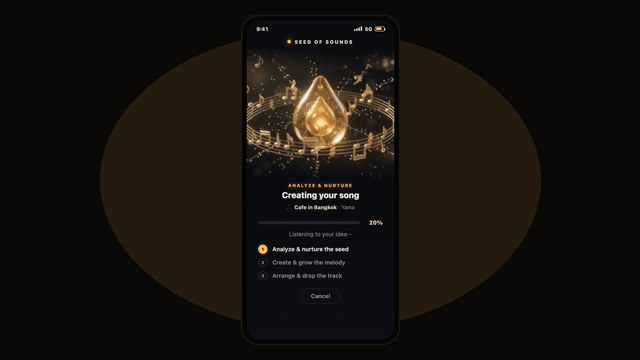
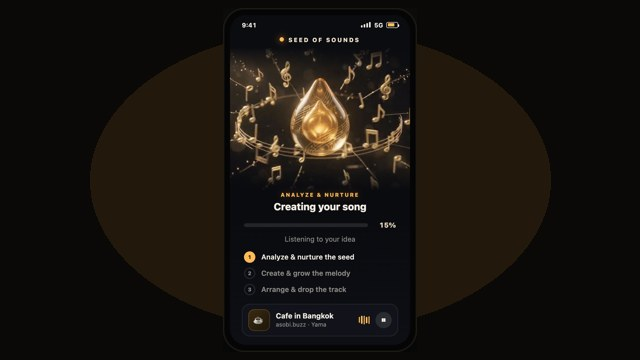
Design 11: seamless phase crossfade + songcard + info panel
Fixes per feedback:
- Phase switch no longer black-flashes: stack the 3 clips as video layers and
  cross-fade on opacity (no src reload) instead of swapping one <video>'s src.
- Add the bottom songcard (thumb + Cafe in Bangkok / asobi.buzz + equalizer +
  pause) like Design 1.
- Add the info aside like Design 1: 'How it's built' bullets, a live page-weight
  badge (real loaded bytes ~1.9MB), Replay + Phase 1/2/3 jump controls, note.
- Restructure into phone + info two-column layout; refreshed poster.

diff --git a/video-mobile.html b/video-mobile.html
@@ -6,52 +6,53 @@
 <title>Seed of Sounds — Mobile Video Loader</title>
 <style>
   * { margin: 0; padding: 0; box-sizing: border-box; }
-  :root { --bg:#08080a; --scr:#0b0c10; --scr2:#0e0f14; --gold:#FFBB57; --gold2:#F58F22;
-    --ink:#f1ece2; --dim:rgba(241,236,226,.55); --track:rgba(255,255,255,.10); --green:#8fce6a; }
-  body { background: radial-gradient(760px 520px at 50% 26%, #14120c, #08080a 70%); color: var(--ink);
+  :root { --gold:#FFBB57; --gold2:#F58F22; --green:#8fce6a;
+    --scr:#0b0c10; --card:#12131a; --ink:#f1ece2; --dim:rgba(241,236,226,.55);
+    --track:rgba(255,255,255,.10); --panel-dim:rgba(241,236,226,.6); --panel-text:#efe2cc; }
+  body { background: radial-gradient(760px 520px at 50% 22%, #14120c, #08080a 70%); color: var(--ink);
     font-family: "Noto Sans JP", -apple-system, BlinkMacSystemFont, system-ui, sans-serif;
-    min-height: 100vh; display: grid; place-items: center; gap: 1.1rem; padding: 2rem; }
-  h1.pgt { font-size: 1rem; font-weight: 800; color: var(--gold); letter-spacing: .02em; }
-  .lede { font-size: .8rem; color: var(--dim); max-width: 44ch; text-align: center; }
+    min-height: 100vh; padding: 2.4rem 1.5rem; }
+  .pgt { text-align: center; margin-bottom: 1.6rem; }
+  .pgt small { font-size: .68rem; letter-spacing: .24em; text-transform: uppercase; color: var(--gold); font-weight: 800; }
+  .pgt h1 { font-size: 1.35rem; font-weight: 800; color: var(--ink); margin-top: .3rem; }
+
+  main { display: flex; flex-wrap: wrap; gap: 2.6rem; justify-content: center; align-items: flex-start; }
 
   /* ---------- phone ---------- */
   .phone { width: 360px; border-radius: 40px; padding: 12px; background: #050506;
     border: 1px solid #23201a; box-shadow: 0 40px 80px -24px rgba(0,0,0,.7), inset 0 0 0 2px #16130e; }
-  .screen { position: relative; border-radius: 30px; overflow: hidden; height: 720px;
-    background: linear-gradient(180deg, var(--scr) 0%, #0a0b0f 55%, var(--scr2) 100%); }
+  .screen { position: relative; border-radius: 30px; overflow: hidden; padding-bottom: 16px;
+    background: linear-gradient(180deg, var(--scr) 0%, #0a0b0f 60%, #0e0f14 100%); }
   .statusbar { display: flex; justify-content: space-between; align-items: center;
-    padding: 12px 22px 6px; font-size: .72rem; font-weight: 700; color: var(--ink);
-    font-variant-numeric: tabular-nums; }
+    padding: 12px 22px 6px; font-size: .72rem; font-weight: 700; font-variant-numeric: tabular-nums; }
   .statusbar .ic { display: flex; align-items: center; gap: 6px; }
   .bat { width: 22px; height: 11px; border: 1px solid var(--ink); border-radius: 3px; position: relative; padding: 1.5px; }
   .bat::after { content:''; position:absolute; right:-3px; top:3px; width:2px; height:5px; background:var(--ink); border-radius:0 2px 2px 0; }
   .bat > i { display:block; height:100%; width:72%; background: var(--gold); border-radius:1px; }
   .sig { display:flex; align-items:flex-end; gap:2px; }
   .sig > i { width:3px; background: var(--ink); border-radius:1px; }
-  .sig > i:nth-child(1){height:4px} .sig>i:nth-child(2){height:6px} .sig>i:nth-child(3){height:8px} .sig>i:nth-child(4){height:10px}
+  .sig>i:nth-child(1){height:4px} .sig>i:nth-child(2){height:6px} .sig>i:nth-child(3){height:8px} .sig>i:nth-child(4){height:10px}
 
-  .apphead { display: flex; align-items: center; justify-content: center; gap: 8px; padding: 10px 0 2px; }
+  .apphead { display: flex; align-items: center; justify-content: center; gap: 8px; padding: 8px 0 2px; }
   .apphead .dot { width: 8px; height: 8px; border-radius: 50%; background: var(--gold); box-shadow: 0 0 12px var(--gold2); }
   .apphead b { font-size: .68rem; letter-spacing: .22em; text-transform: uppercase; color: #efe2cc; font-weight: 800; }
 
-  /* video hero — black background melts into the screen via screen-blend */
-  .hero { position: relative; height: 300px; margin: 6px 0 0; }
-  .hero video { position: absolute; inset: 0; width: 100%; height: 100%; object-fit: cover;
-    mix-blend-mode: screen;
-    -webkit-mask-image: linear-gradient(to bottom, transparent 0, #000 14%, #000 86%, transparent 100%);
-            mask-image: linear-gradient(to bottom, transparent 0, #000 14%, #000 86%, transparent 100%); }
+  /* video hero — dual layers crossfade; black bg melts via screen-blend + edge mask */
+  .hero { position: relative; height: 264px; margin-top: 6px; }
+  .hero .layer { position: absolute; inset: 0; width: 100%; height: 100%; object-fit: cover;
+    mix-blend-mode: screen; opacity: 0; transition: opacity .55s ease;
+    -webkit-mask-image: linear-gradient(to bottom, transparent 0, #000 15%, #000 85%, transparent 100%);
+            mask-image: linear-gradient(to bottom, transparent 0, #000 15%, #000 85%, transparent 100%); }
+  .hero .layer.on { opacity: 1; }
   .hero .glow { position: absolute; inset: 0; pointer-events: none;
-    background: radial-gradient(120px 120px at 50% 46%, rgba(245,160,50,.14), transparent 70%); }
-  .hero .flash { position: absolute; inset: 0; background: var(--scr); opacity: 0; transition: opacity .16s ease; pointer-events: none; }
+    background: radial-gradient(120px 120px at 50% 46%, rgba(245,160,50,.13), transparent 70%); }
 
-  .info { padding: 4px 26px 0; text-align: center; }
+  .info-block { padding: 2px 26px 0; text-align: center; }
   .phase-label { font-size: .62rem; letter-spacing: .2em; text-transform: uppercase; font-weight: 800;
     color: var(--gold); min-height: 1em; text-shadow: 0 0 12px rgba(245,143,34,.4); transition: opacity .4s; }
-  .title { font-size: 1.18rem; font-weight: 800; margin-top: 5px; color: var(--ink); }
-  .track { margin-top: 6px; font-size: .74rem; color: var(--dim); }
-  .track b { color: #e7d7bd; font-weight: 700; }
+  .title { font-size: 1.16rem; font-weight: 800; margin-top: 5px; color: var(--ink); }
 
-  .progress-row { display: flex; align-items: center; gap: 12px; padding: 0 26px; margin-top: 18px; }
+  .progress-row { display: flex; align-items: center; gap: 12px; padding: 0 26px; margin-top: 16px; }
   .bar { flex: 1; height: 7px; background: var(--track); border-radius: 99px; overflow: hidden; }
   .fill { height: 100%; width: 0%; border-radius: 99px; background: linear-gradient(90deg, var(--gold2), var(--gold));
     box-shadow: 0 0 10px rgba(245,143,34,.6); transition: width .3s ease; }
@@ -60,7 +61,7 @@
   .status .dots::after { content:''; animation: dots 1.4s steps(4,end) infinite; }
   @keyframes dots { 0%{content:''} 25%{content:'·'} 50%{content:'··'} 75%{content:'···'} }
 
-  .steps { list-style: none; padding: 0 26px; margin: 16px 0 0; display: grid; gap: 9px; }
+  .steps { list-style: none; padding: 0 26px; margin: 15px 0 0; display: grid; gap: 9px; }
   .steps li { display: flex; align-items: center; gap: 11px; font-size: .82rem; font-weight: 600; color: var(--dim); transition: color .3s; }
   .steps li .d { width: 21px; height: 21px; border-radius: 50%; flex: none; display: grid; place-items: center;
     font-size: .6rem; font-weight: 800; border: 2px solid var(--track); color: var(--dim); transition: all .3s; }
@@ -71,84 +72,160 @@
   .steps li[data-s="done"] .d { background: var(--green); border-color: var(--green); color: #0c1a06; }
   @keyframes pulse { 0%,100%{box-shadow:0 0 0 0 rgba(255,187,87,.45)} 50%{box-shadow:0 0 0 6px rgba(255,187,87,0)} }
 
-  .cancel { margin: 18px 26px 0; text-align: center; }
-  .cancel button { font-family: inherit; font-size: .8rem; font-weight: 700; color: var(--dim);
-    background: transparent; border: 1px solid var(--track); border-radius: 99px; padding: 9px 22px; cursor: pointer; transition: .2s; }
-  .cancel button:hover { color: var(--ink); border-color: rgba(255,187,87,.4); }
+  /* song card (now-generating track) */
+  .songcard { margin: 16px 22px 0; display: flex; align-items: center; gap: 11px;
+    background: var(--card); border: 1px solid var(--track); border-radius: 15px; padding: 9px 11px; }
+  .songcard .thumb { width: 40px; height: 40px; border-radius: 11px; flex: none; display: grid; place-items: center;
+    font-size: 1.1rem; background: linear-gradient(135deg, #3a2a12, #1c1509); box-shadow: inset 0 0 0 1px rgba(255,187,87,.25); }
+  .songcard .meta { display: flex; flex-direction: column; line-height: 1.3; flex: 1; min-width: 0; }
+  .songcard .meta strong { font-size: .84rem; color: var(--ink); }
+  .songcard .meta span { font-size: .68rem; color: var(--dim); }
+  .songcard .wave { display: flex; align-items: center; gap: 2px; height: 18px; }
+  .songcard .wave i { width: 2.5px; border-radius: 2px; background: var(--gold); animation: eq 1s ease-in-out infinite; }
+  .songcard .wave i:nth-child(2){animation-delay:.15s} .songcard .wave i:nth-child(3){animation-delay:.3s}
+  .songcard .wave i:nth-child(4){animation-delay:.45s} .songcard .wave i:nth-child(5){animation-delay:.1s}
+  @keyframes eq { 0%,100%{height:5px} 50%{height:16px} }
+  .songcard .pausebtn { width: 30px; height: 30px; border-radius: 50%; border: none; flex: none;
+    background: var(--track); color: var(--ink); font-size: .55rem; font-weight: 800; cursor: pointer; }
+
+  /* ---------- info panel ---------- */
+  .info { max-width: 380px; padding-top: .4rem; }
+  .info h3 { font-size: .78rem; letter-spacing: .14em; text-transform: uppercase; color: var(--gold); margin: 0 0 1rem; }
+  .tech { list-style: none; padding: 0; margin: 0 0 1.4rem; display: grid; gap: .8rem; }
+  .tech li { font-size: .88rem; line-height: 1.55; color: var(--panel-dim); padding-left: 1.1rem; position: relative; }
+  .tech li::before { content: "❋"; position: absolute; left: 0; color: var(--green); font-size: .7rem; top: .25em; }
+  .tech strong { color: var(--panel-text); font-weight: 700; }
+  .tech code { font-family: ui-monospace, "SF Mono", Menlo, monospace; font-size: .78em;
+    background: rgba(255,255,255,.07); padding: .1em .4em; border-radius: 5px; color: #e8cf96; }
+  .size-badge { display: flex; align-items: baseline; gap: .7rem; background: rgba(255,255,255,.04);
+    border: 1px solid var(--track); border-radius: 14px; padding: .9rem 1rem; margin-bottom: 1.3rem; }
+  .size-badge .kb { font-size: 1.5rem; font-weight: 800; color: var(--gold); font-variant-numeric: tabular-nums; white-space: nowrap; }
+  .size-badge .lbl { font-size: .78rem; color: var(--panel-dim); line-height: 1.4; }
+  .controls { display: flex; flex-wrap: wrap; gap: .5rem; margin-bottom: 1.2rem; }
+  .controls button { font-family: inherit; font-size: .82rem; font-weight: 700; color: var(--panel-text);
+    background: rgba(255,255,255,.05); border: 1px solid var(--track); border-radius: 99px; padding: .5rem 1rem; cursor: pointer; transition: .2s; }
+  .controls button:hover { border-color: rgba(255,187,87,.5); color: var(--ink); }
+  .note { font-size: .8rem; color: var(--panel-dim); line-height: 1.6; border-top: 1px solid rgba(239,230,210,.12); padding-top: 1rem; }
+  .back { display: inline-block; font-size: .82rem; color: var(--gold); text-decoration: none; margin-bottom: 1.2rem; }
 </style>
 </head>
 <body>
-  <h1 class="pgt">📱 Mobile loading screen — real video</h1>
-  <div class="phone">
-    <div class="screen">
-      <div class="statusbar">
-        <span>9:41</span>
-        <span class="ic"><span class="sig"><i></i><i></i><i></i><i></i></span>5G<span class="bat"><i></i></span></span>
+  <div class="pgt"><small>1Pro Studio · Loading Screen Lab</small><h1>Design 11 — Mobile UI · Video Loader</h1></div>
+  <main>
+    <section>
+      <div class="phone">
+        <div class="screen">
+          <div class="statusbar">
+            <span>9:41</span>
+            <span class="ic"><span class="sig"><i></i><i></i><i></i><i></i></span>5G<span class="bat"><i></i></span></span>
+          </div>
+          <div class="apphead"><span class="dot"></span><b>Seed of Sounds</b></div>
+          <div class="hero">
+            <video class="layer" id="v0" src="assets/video1.mp4" muted loop playsinline preload="auto"></video>
+            <video class="layer" id="v1" src="assets/video2.mp4" muted loop playsinline preload="auto"></video>
+            <video class="layer" id="v2" src="assets/video3.mp4" muted loop playsinline preload="auto"></video>
+            <div class="glow"></div>
+          </div>
+          <div class="info-block">
+            <div class="phase-label" id="phase">Analyze &amp; Nurture</div>
+            <div class="title">Creating your song</div>
+          </div>
+          <div class="progress-row"><div class="bar"><i class="fill" id="fill"></i></div><span class="pct" id="pct">0%</span></div>
+          <div class="status"><span id="statusText">Listening to your idea</span><span class="dots"></span></div>
+          <ul class="steps">
+            <li id="st0" data-s="active"><span class="d">1</span><span>Analyze &amp; nurture the seed</span></li>
+            <li id="st1" data-s="pending"><span class="d">2</span><span>Create &amp; grow the melody</span></li>
+            <li id="st2" data-s="pending"><span class="d">3</span><span>Arrange &amp; drop the track</span></li>
+          </ul>
+          <div class="songcard">
+            <div class="thumb">☕</div>
+            <div class="meta"><strong>Cafe in Bangkok</strong><span>asobi.buzz · Yama</span></div>
+            <div class="wave"><i></i><i></i><i></i><i></i><i></i></div>
+            <button class="pausebtn" aria-label="Pause">❚❚</button>
+          </div>
+        </div>
       </div>
-      <div class="apphead"><span class="dot"></span><b>Seed of Sounds</b></div>
-      <div class="hero">
-        <video id="v" poster="assets/cinematic_poster.jpg" muted playsinline preload="auto"></video>
-        <div class="glow"></div>
-        <div class="flash" id="flash"></div>
-      </div>
-      <div class="info">
-        <div class="phase-label" id="phase">Analyze &amp; Nurture</div>
-        <div class="title">Creating your song</div>
-        <div class="track">🎵 <b>Cafe in Bangkok</b> · Yama</div>
-      </div>
-      <div class="progress-row"><div class="bar"><i class="fill" id="fill"></i></div><span class="pct" id="pct">0%</span></div>
-      <div class="status"><span id="statusText">Listening to your idea</span><span class="dots"></span></div>
-      <ul class="steps">
-        <li id="st0" data-s="active"><span class="d">1</span><span>Analyze &amp; nurture the seed</span></li>
-        <li id="st1" data-s="pending"><span class="d">2</span><span>Create &amp; grow the melody</span></li>
-        <li id="st2" data-s="pending"><span class="d">3</span><span>Arrange &amp; drop the track</span></li>
+    </section>
+
+    <aside class="info">
+      <a class="back" href="index.html">← All designs</a>
+      <h3>How it's built</h3>
+      <ul class="tech">
+        <li><strong>Real footage, one clip per phase</strong> — Music Seed, sprouting shell and dew drop, each a dedicated <code>&lt;video&gt;</code> instead of drawn art.</li>
+        <li><strong>No video box</strong> — the clip's black background is dissolved into the app with <code>mix-blend-mode: screen</code> plus a soft edge <code>mask</code>, so the seed floats in the UI.</li>
+        <li><strong>Seamless phase switch</strong> — two stacked video layers cross-fade on <code>opacity</code>; nothing reloads, so there's no black flash.</li>
+        <li><strong>Compressed to 480p</strong> — all three clips together are ~1.8&nbsp;MB (from 7.7&nbsp;MB), indistinguishable at phone size.</li>
+        <li><strong>UI is state-driven</strong> — phase label, progress %, status line and the step checklist all follow the current phase; the backend just calls <code>setPhase()</code>.</li>
       </ul>
-      <div class="cancel"><button type="button">Cancel</button></div>
-    </div>
-  </div>
-  <p class="lede">The 3-phase video inside a real mobile loading screen. The clip's black background is dissolved into the app with <code>mix-blend-mode: screen</code>, so the golden seed floats in the UI — no video box. Progress, status and the step checklist track the phases.</p>
+      <div class="size-badge">
+        <span class="kb" id="kb">…</span>
+        <span class="lbl">total weight of <strong>this page as loaded</strong> — the three phase videos + UI, before gzip.</span>
+      </div>
+      <div class="controls">
+        <button id="replay">⟲ Replay</button>
+        <button data-jump="0">Phase 1</button>
+        <button data-jump="1">Phase 2</button>
+        <button data-jump="2">Phase 3</button>
+      </div>
+      <p class="note">This demo auto-advances every ~6&nbsp;s to show all three phases. In the app, drop the timer and call <code>setPhase(0/1/2)</code> from the music-generation API's status — each phase loops its clip until it's done.</p>
+    </aside>
+  </main>
 
 <script>
 (function () {
-  const v = document.getElementById('v'), flash = document.getElementById('flash');
+  const vids = [document.getElementById('v0'), document.getElementById('v1'), document.getElementById('v2')];
   const phaseEl = document.getElementById('phase'), statusText = document.getElementById('statusText');
   const fill = document.getElementById('fill'), pct = document.getElementById('pct');
   const steps = [document.getElementById('st0'), document.getElementById('st1'), document.getElementById('st2')];
   const P = [
-    { src: 'assets/video1.mp4', name: 'Analyze & Nurture', status: 'Listening to your idea' },
-    { src: 'assets/video2.mp4', name: 'Create & Grow',     status: 'Composing the melody' },
-    { src: 'assets/video3.mp4', name: 'Arrange & Drop',    status: 'Mixing your track' },
+    { name: 'Analyze & Nurture', status: 'Listening to your idea' },
+    { name: 'Create & Grow',     status: 'Composing the melody' },
+    { name: 'Arrange & Drop',    status: 'Mixing your track' },
   ];
-  const DWELL = 6000;                // ms per phase (demo). Backend ends each phase for real.
-  let cur = -1, timer = null, seaming = false, phaseStart = 0;
+  const DWELL = 6000;
+  let cur = -1, timer = null, phaseStart = 0, auto = true;
 
-  function seam(fn) { if (seaming) return; seaming = true; flash.style.opacity = 0.9;
-    setTimeout(() => { fn(); flash.style.opacity = 0; setTimeout(() => { seaming = false; }, 160); }, 150); }
-
-  function setPhase(i) {
+  function setPhase(i, isAuto) {
     const first = cur < 0; cur = i; phaseStart = performance.now();
+    if (!isAuto) auto = false;                       // manual jump stops auto-advance
     phaseEl.style.opacity = 0;
     setTimeout(() => { phaseEl.textContent = P[i].name; statusText.textContent = P[i].status; phaseEl.style.opacity = 1; }, first ? 0 : 200);
-    steps.forEach((el, k) => el.dataset.s = k < i ? 'done' : (k === i ? 'active' : 'pending'));
-    steps.forEach((el, k) => { if (k < i) el.querySelector('.d').textContent = '✓'; else el.querySelector('.d').textContent = k + 1; });
-    const go = () => { v.src = P[i].src; v.load(); v.play().catch(() => {}); };
-    if (first) go(); else seam(go);
-    clearTimeout(timer); timer = setTimeout(() => setPhase((cur + 1) % 3), DWELL);
+    steps.forEach((el, k) => { el.dataset.s = k < i ? 'done' : (k === i ? 'active' : 'pending');
+      el.querySelector('.d').textContent = k < i ? '✓' : (k + 1); });
+    // crossfade video layers (no reload -> no black)
+    vids.forEach((vd, k) => {
+      if (k === i) { try { vd.currentTime = 0; } catch (e) {} vd.play().catch(() => {}); vd.classList.add('on'); }
+      else { vd.classList.remove('on'); setTimeout(() => { if (!vd.classList.contains('on')) vd.pause(); }, 650); }
+    });
+    clearTimeout(timer);
+    if (auto) timer = setTimeout(() => setPhase((cur + 1) % 3, true), DWELL);
   }
 
   function raf() {
     if (cur >= 0) {
-      // soft-loop the clip so the phase can wait any length
-      if (!seaming && v.duration && v.currentTime >= v.duration - 0.25)
-        seam(() => { v.currentTime = 0; v.play().catch(() => {}); });
-      // monotonic overall progress across the 3 phases
-      const within = Math.max(0, Math.min(1, (performance.now() - phaseStart) / DWELL));
+      const within = auto ? Math.max(0, Math.min(1, (performance.now() - phaseStart) / DWELL)) : 0.5;
       const p = Math.min(100, ((cur + within) / 3) * 100);
       fill.style.width = p.toFixed(0) + '%'; pct.textContent = p.toFixed(0) + '%';
     }
     requestAnimationFrame(raf);
   }
-  setPhase(0); requestAnimationFrame(raf);
+
+  // page weight (real loaded bytes), refreshed while videos buffer
+  const kb = document.getElementById('kb');
+  function weight() {
+    let b = 0; const nav = performance.getEntriesByType('navigation')[0];
+    if (nav) b += nav.transferSize || nav.encodedBodySize || 0;
+    for (const r of performance.getEntriesByType('resource')) b += r.transferSize || r.encodedBodySize || 0;
+    kb.textContent = b > 1048576 ? (b / 1048576).toFixed(1) + ' MB' : Math.round(b / 1024) + ' KB';
+  }
+  setInterval(weight, 1000); weight();
+
+  // controls
+  document.getElementById('replay').addEventListener('click', () => { auto = true; setPhase(0, true); });
+  document.querySelectorAll('.controls [data-jump]').forEach(btn =>
+    btn.addEventListener('click', () => setPhase(+btn.dataset.jump, false)));
+
+  setPhase(0, true); requestAnimationFrame(raf);
 })();
 </script>
 </body>